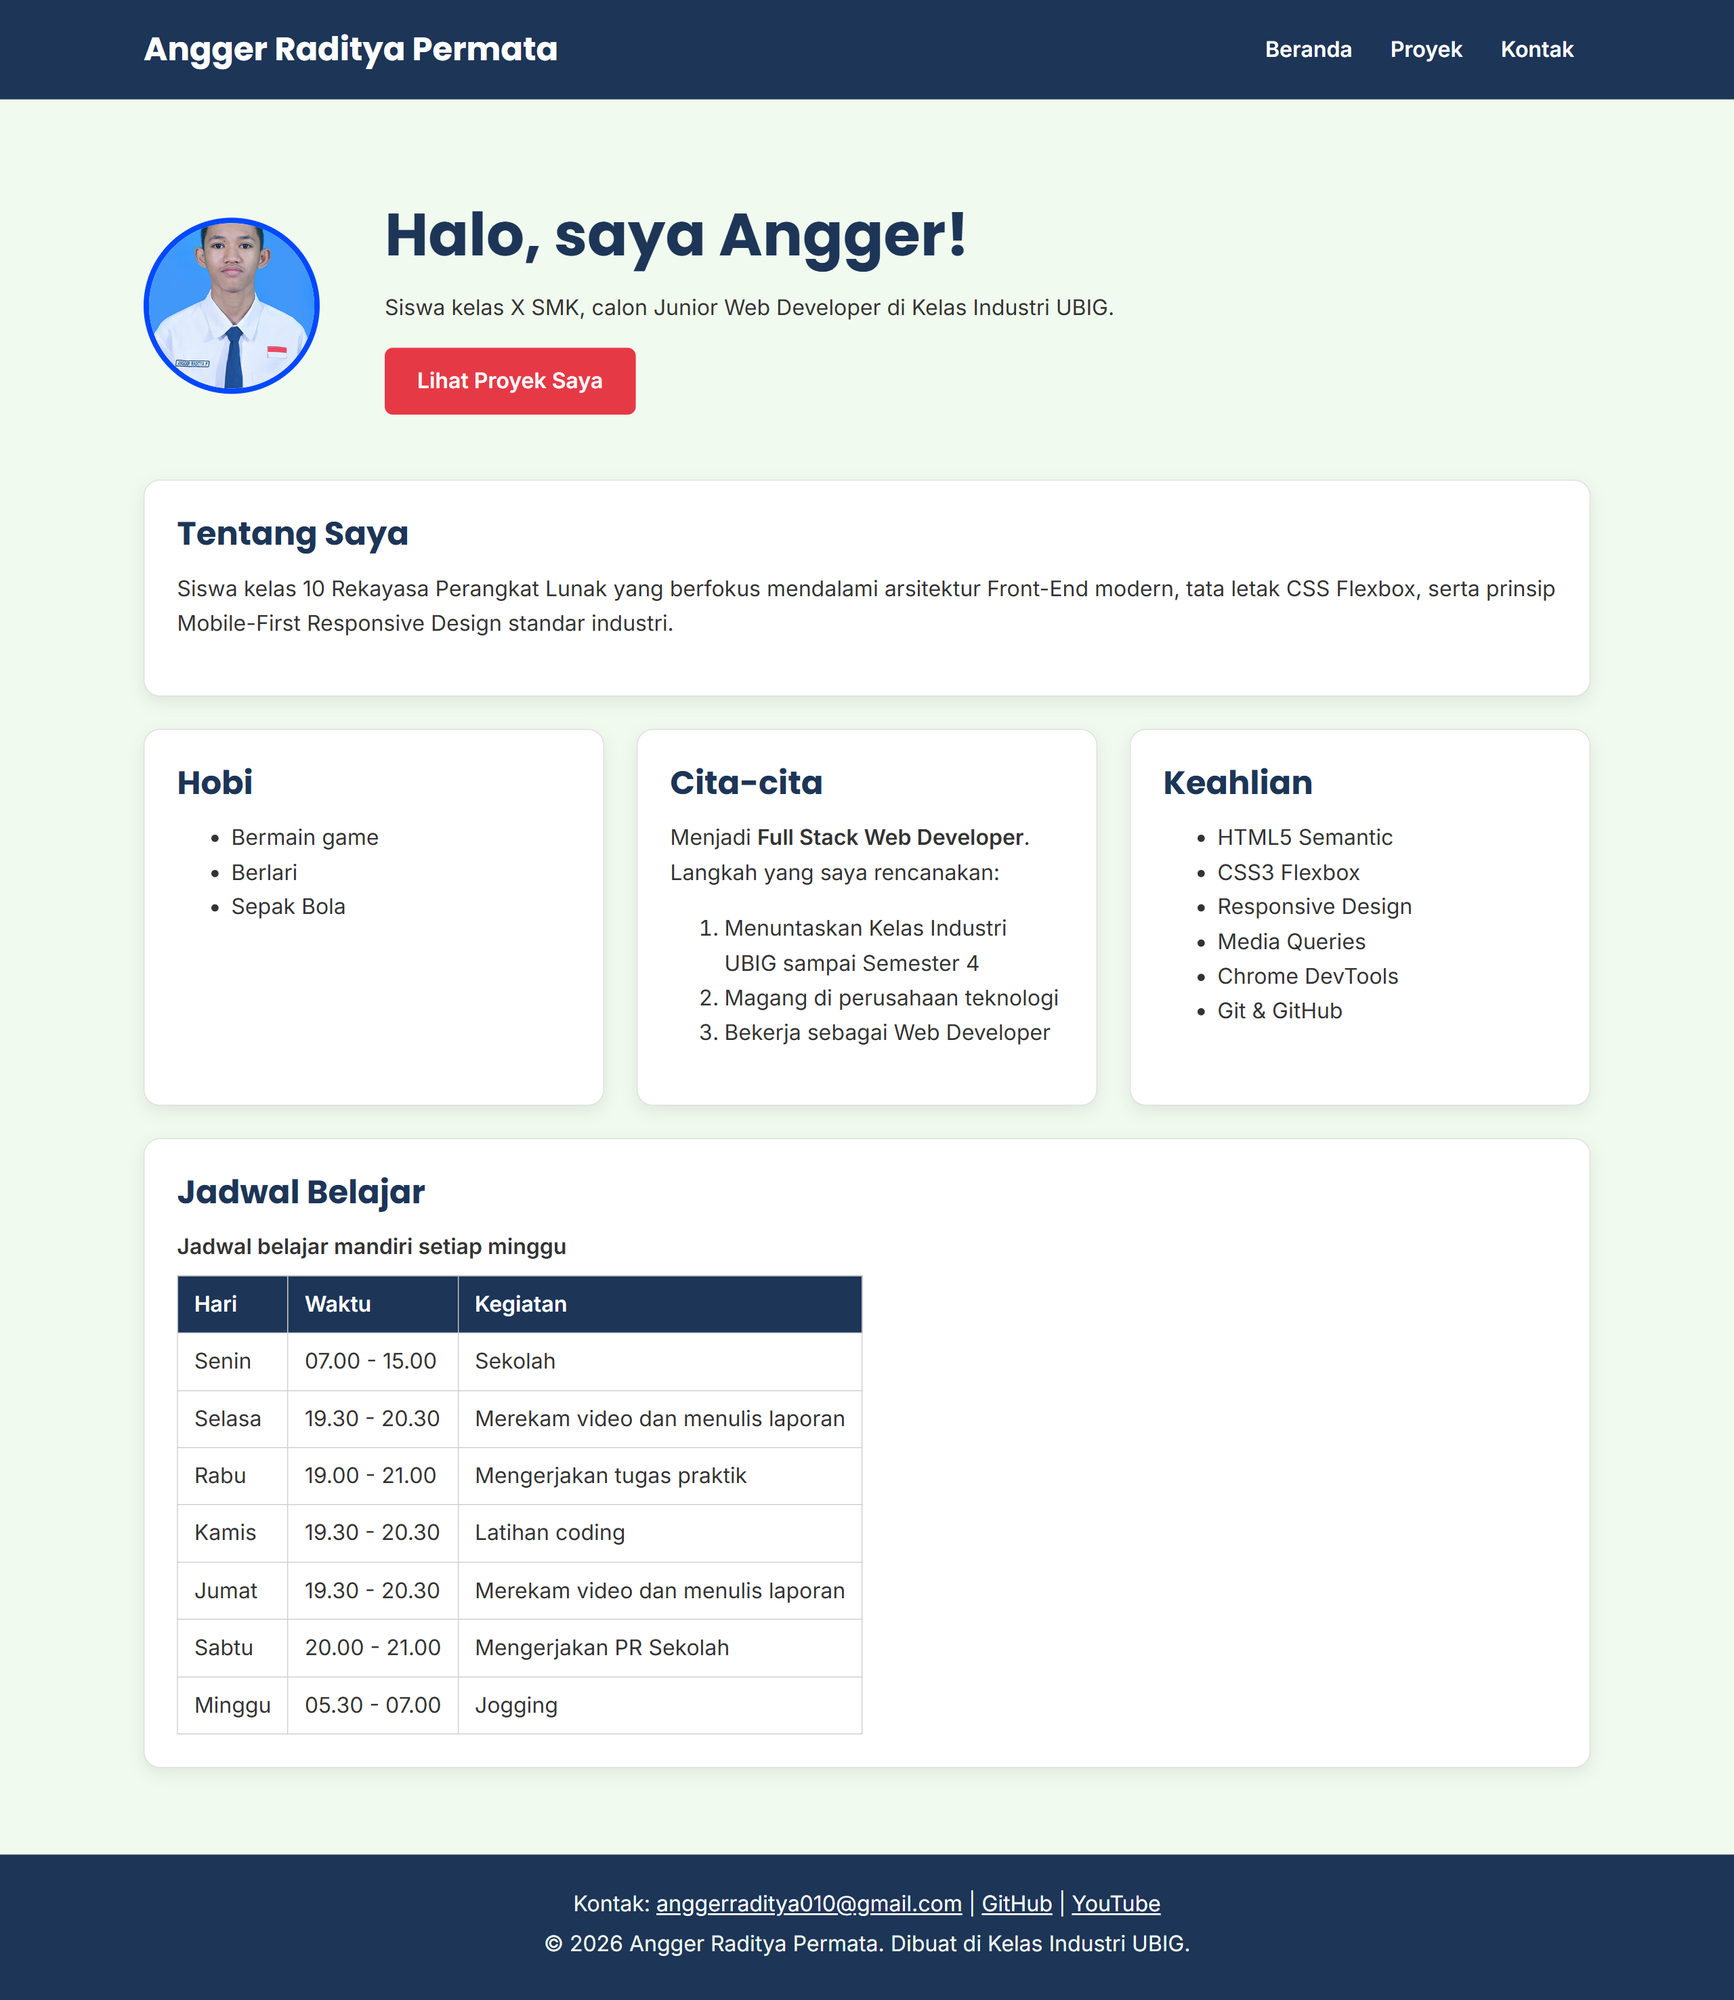
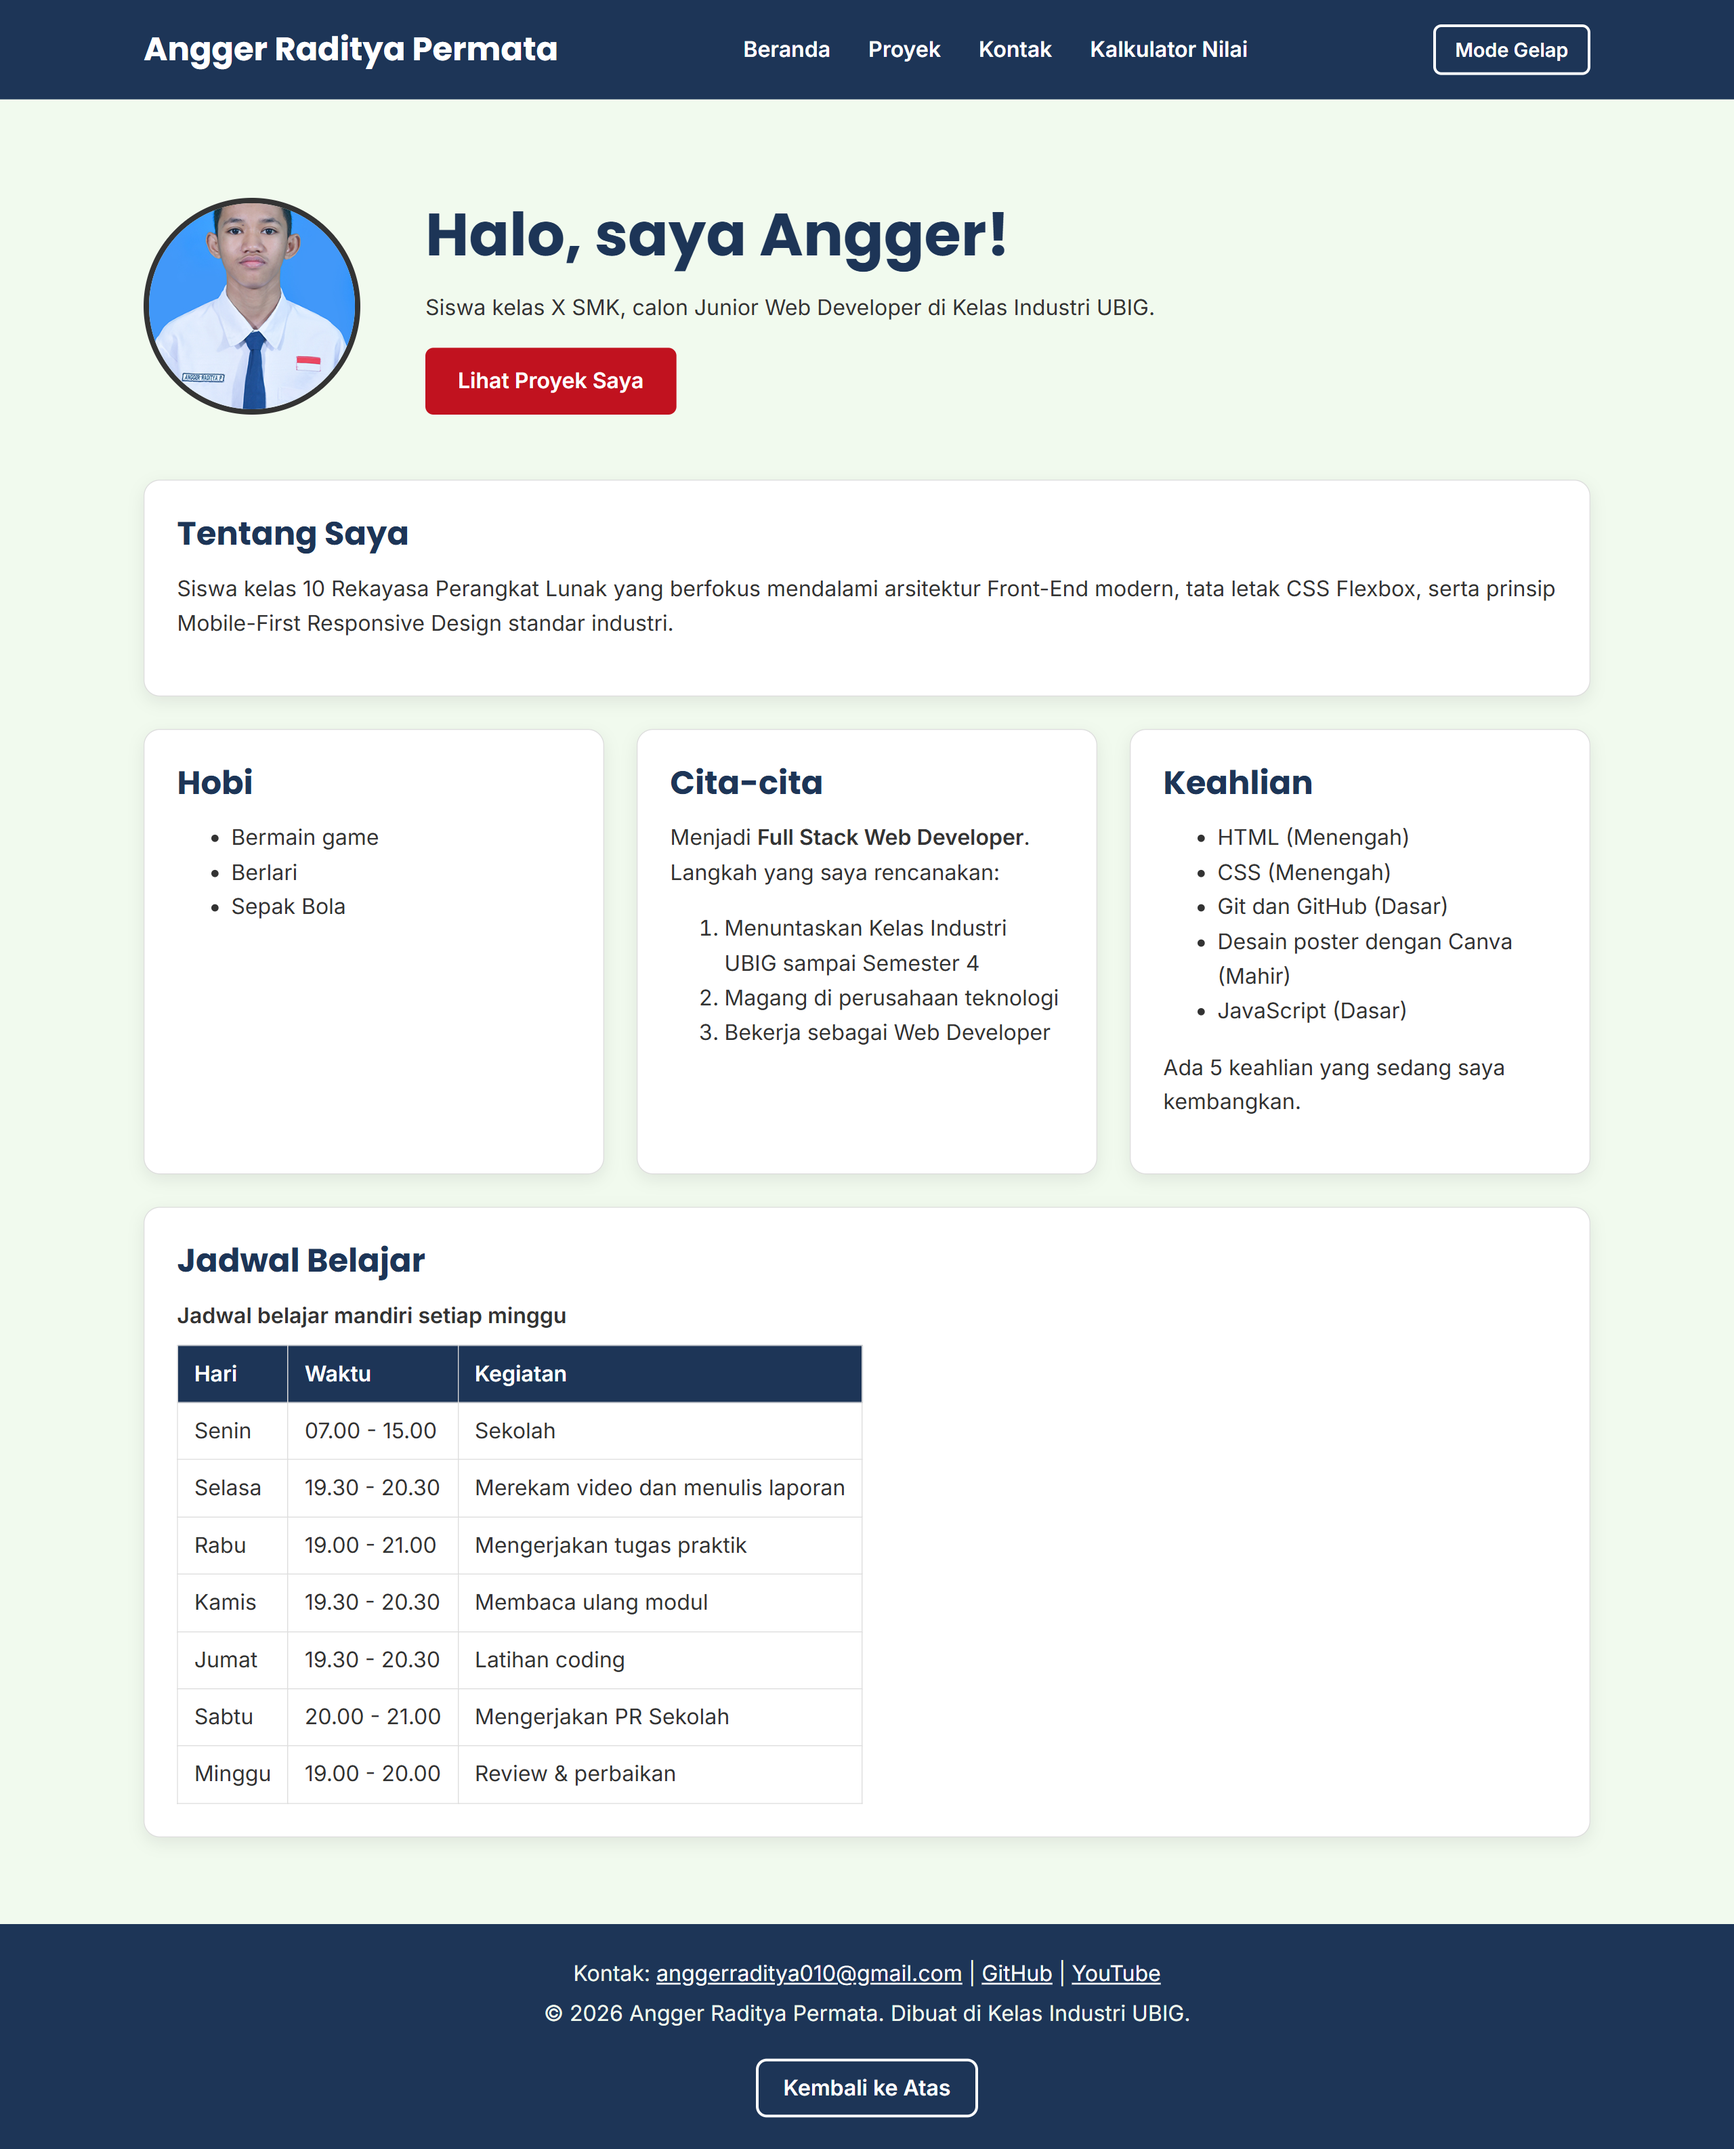
docs: perbarui README Portofolio v2
Closes #2

Changed region(s): [[0.0, 0.5298, 1.0, 0.9973], [0.0625, 0.0935, 0.9062, 0.561], [0.0, 0.0, 1.0, 0.0623]]

diff --git a/css/style.css b/css/style.css
@@ -175,10 +175,13 @@ main {
 }
 
 #daftar-proyek {
-  min-height: 30rem;
+  min-height: 60rem;
 }
 
 article img {
+  width: 100%;
+  aspect-ratio: 280 / 184;
+  object-fit: cover;
   border-radius: 8px;
   border: 1px solid var(--warna-garis);
 }
@@ -357,4 +360,22 @@ body.gelap .tombol-filter.aktif {
 body.gelap #hasil {
   background-color: var(--warna-kartu);
   color: var(--warna-teks);
+}
+
+/* 12. Tombol Kembali ke Atas */
+.tombol-atas {
+  background: transparent;
+  border: 2px solid #ffffff;
+  color: #ffffff;
+  margin-top: 16px;
+  padding: 10px 18px;
+  border-radius: 8px;
+  cursor: pointer;
+  font-size: 1rem;
+}
+
+body.light-mode .tombol-atas,
+body.terang .tombol-atas {
+  border-color: #111111;
+  color: #111111;
 }

diff --git a/kalkulator.html b/kalkulator.html
@@ -113,6 +113,9 @@
         >
       </p>
       <p>&copy; 2026 Angger Raditya Permata. Dibuat di Kelas Industri UBIG.</p>
+      <button type="button" id="tombol-atas" class="tombol-atas">
+        Kembali ke Atas
+      </button>
     </footer>
     <script src="js/main.js" defer></script>
     <script src="js/kalkulator.js"></script>

diff --git a/js/main.js b/js/main.js
@@ -175,3 +175,12 @@ async function ambilRepo() {
 if (daftarRepo) {
   ambilRepo();
 }
+
+// 6. Tombol Kembali ke Atas
+const tombolAtas = document.getElementById("tombol-atas");
+
+if (tombolAtas) {
+  tombolAtas.addEventListener("click", function () {
+    window.scrollTo({ top: 0, behavior: "smooth" });
+  });
+}

diff --git a/index.html b/index.html
@@ -177,6 +177,9 @@
         >
       </p>
       <p>&copy; 2026 Angger Raditya Permata. Dibuat di Kelas Industri UBIG.</p>
+      <button type="button" id="tombol-atas" class="tombol-atas">
+        Kembali ke Atas
+      </button>
     </footer>
     <script src="js/main.js" defer></script>
   </body>

diff --git a/kontak.html b/kontak.html
@@ -156,6 +156,9 @@
         >
       </p>
       <p>&copy; 2026 Angger Raditya Permata. Dibuat di Kelas Industri UBIG.</p>
+      <button type="button" id="tombol-atas" class="tombol-atas">
+        Kembali ke Atas
+      </button>
     </footer>
     <script src="js/main.js" defer></script>
   </body>

diff --git a/proyek.html b/proyek.html
@@ -107,6 +107,9 @@
         >
       </p>
       <p>&copy; 2026 Angger Raditya Permata. Dibuat di Kelas Industri UBIG.</p>
+      <button type="button" id="tombol-atas" class="tombol-atas">
+        Kembali ke Atas
+      </button>
     </footer>
     <script src="js/main.js" defer></script>
   </body>

diff --git a/README.md b/README.md
@@ -1,19 +1,34 @@
 # Portofolio Angger Raditya Permata
-Website portofolio pribadi yang saya buat di Kelas Industri UBIG
-(Paket 1, Minggu 01 sampai 05).
+Website portofolio pribadi yang saya buat di Kelas Industri UBIG 
+ (Paket 1, Minggu 01 sampai 05).
 Website ini tampil rapi di ponsel, tablet, dan laptop.
+
 ## Tampilan
-![Tampilan beranda portofolio](img/tampilan-portofolio.png)
+![Tampilan beranda portofolio V2](img/tampilan-portofolio.png)
+
+## Lighthouse Beranda 
+![Nilai Lighthouse terbaru beranda portofolio V2](img/lighthouse-beranda.png)
+
 ## Fitur
-- Halaman **Beranda** berisi profil, hobi, cita-cita, keahlian, dan
-jadwal belajar
+- Halaman **Beranda** berisi profil, hobi, cita-cita, keahlian, dan jadwal belajar
 - Halaman **Proyek** berisi daftar proyek dalam bentuk kartu
 - Halaman **Kontak** berisi form untuk menghubungi saya
 - Tampilan responsif dengan Flexbox dan *media query*
+
 ## Teknologi
 - HTML5
 - CSS3 (Flexbox dan media query)
 - Git dan GitHub
+- VS Code dan Live Server
+- JavaScript
+- JSON
+- GitHub API
+
+## Skor Lighthouse (mobile)
+- Beranda : Performance 99, Accessibility 100, Best Practices 100, SEO 100
+- Proyek : Performance 90, Accessibility 100, Best Practices 100, SEO 100
+- Kontak : Performance 99, Accessibility 100, Best Practices 100, SEO 100
+
 ## Tautan
 - Website: https://portofolio-angger-five.vercel.app/
 - Dibuat oleh: Angger Raditya Permata, SMKN 1 Pasuruan
